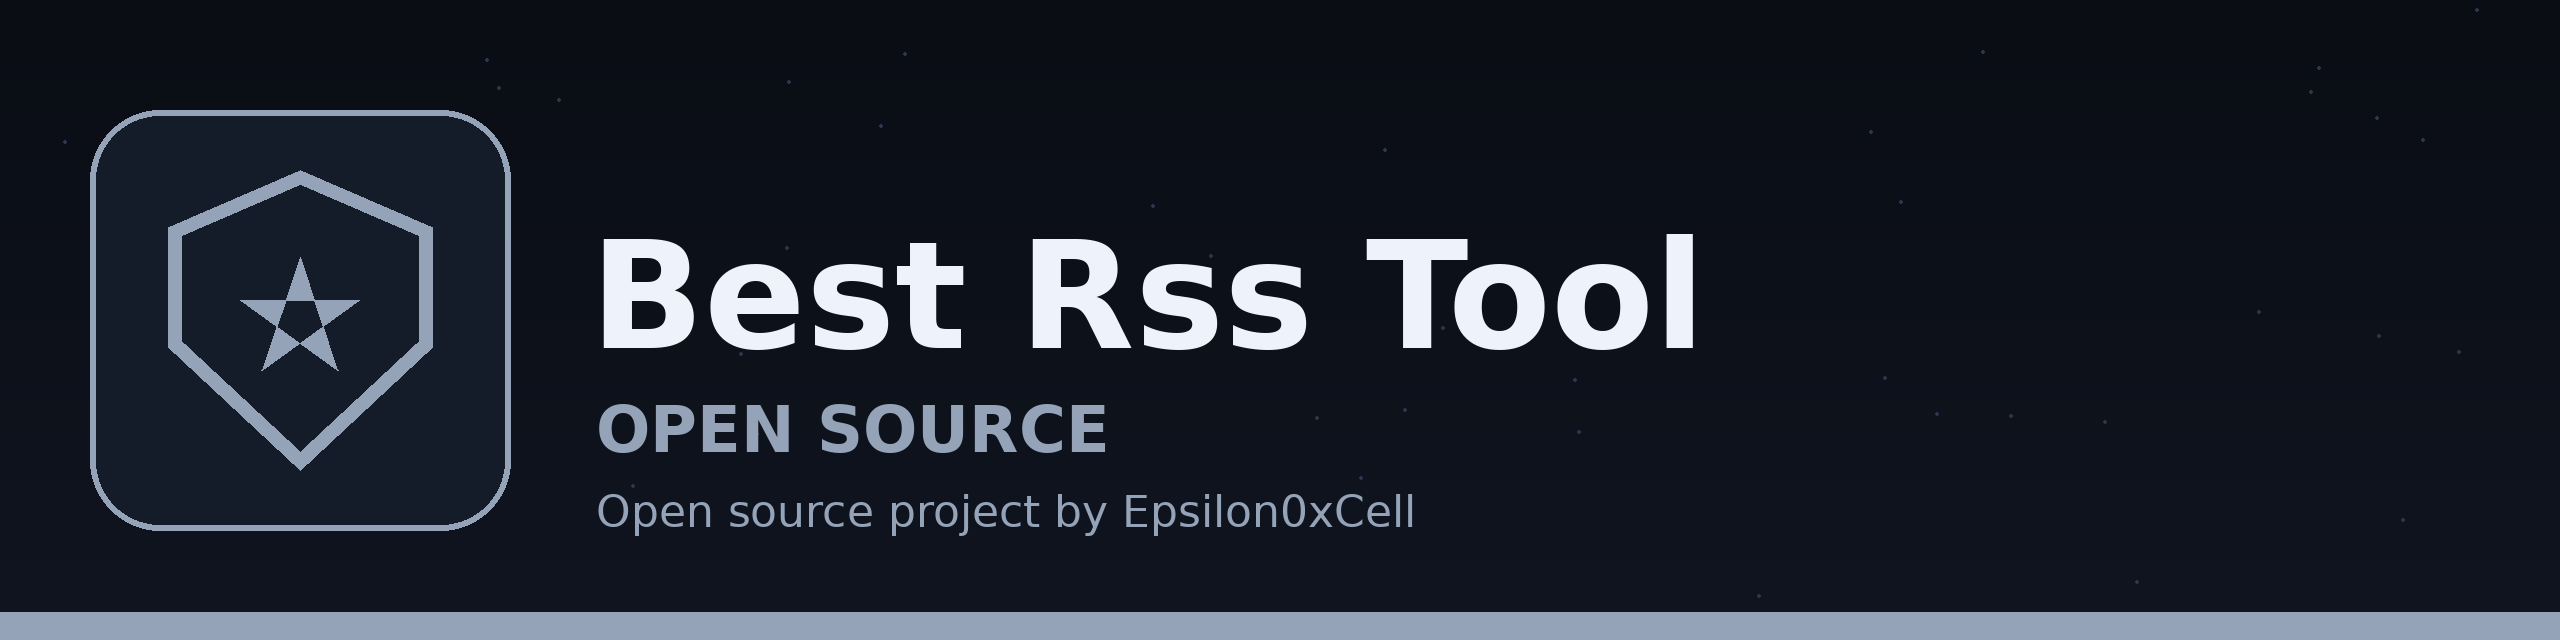
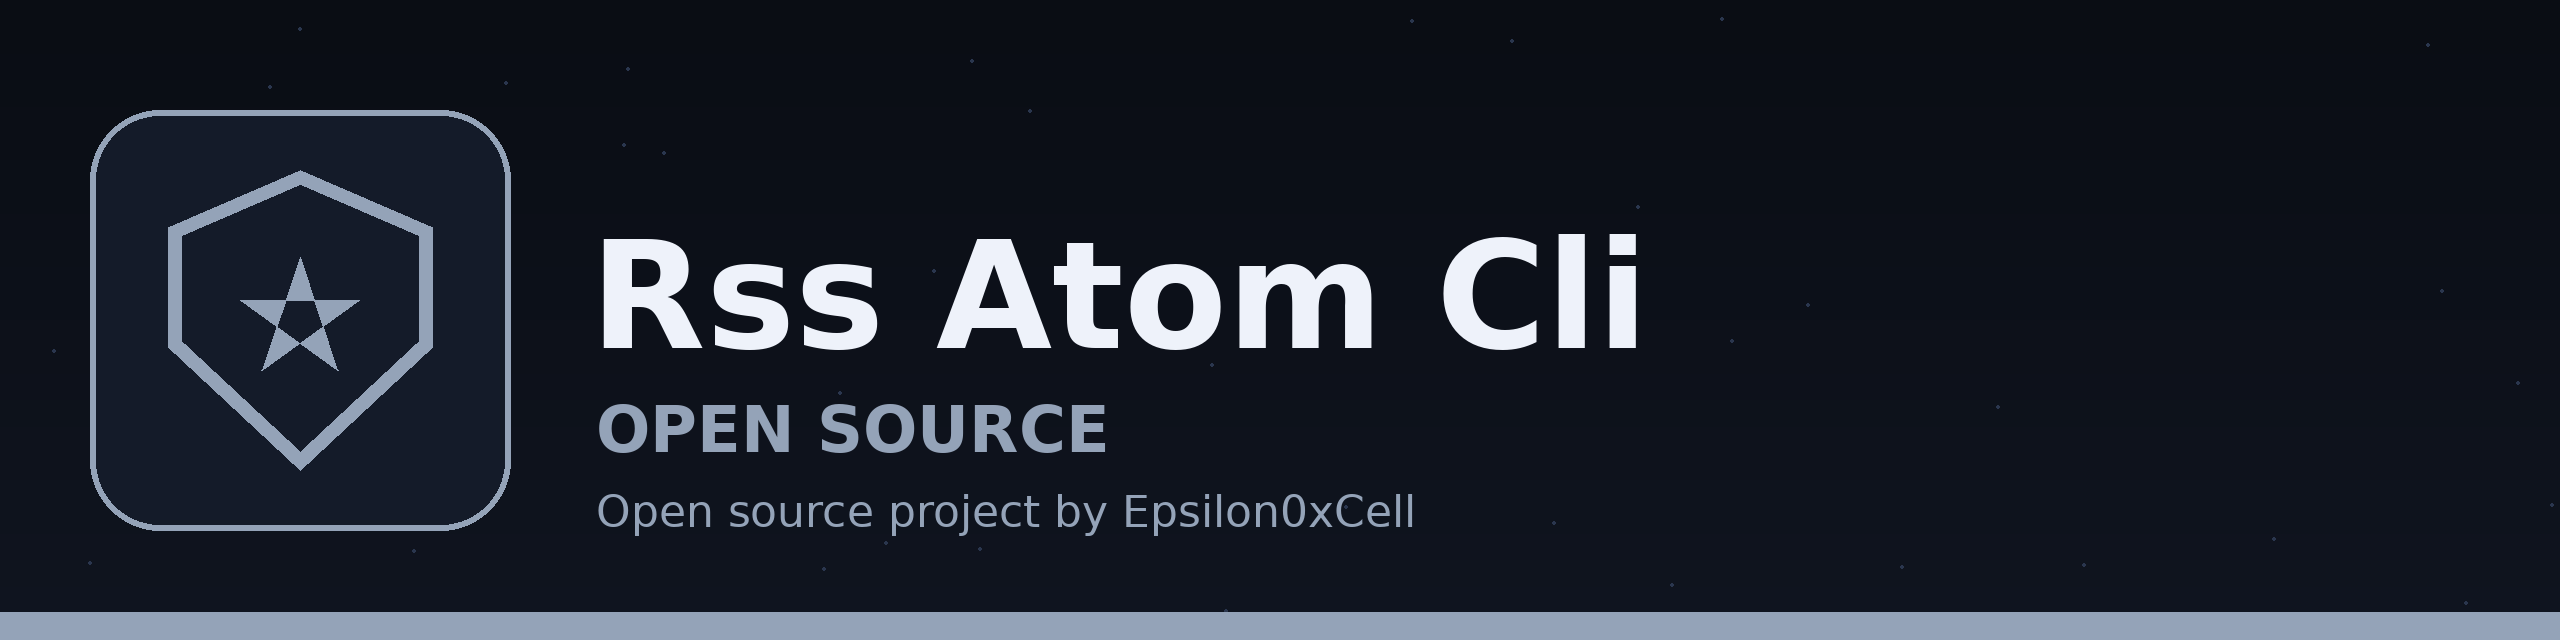
Update name to RSS-Atom-CLI: README title and branding

Changed region(s): [[0.25, 0.3438, 0.6875, 0.5625]]

diff --git a/README.md b/README.md
@@ -1,6 +1,6 @@
 ![Banner](banner.png)
 
-# Best-RSS-Tool
+# RSS-Atom-CLI
 ```
 https://feedly.com/i
 ```
